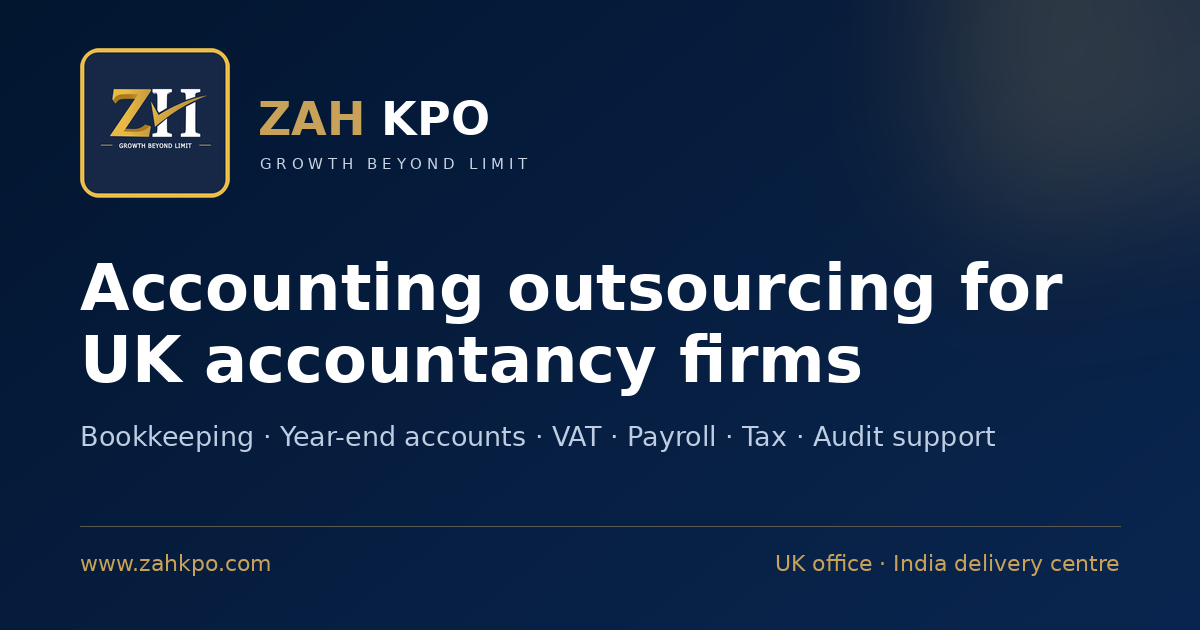
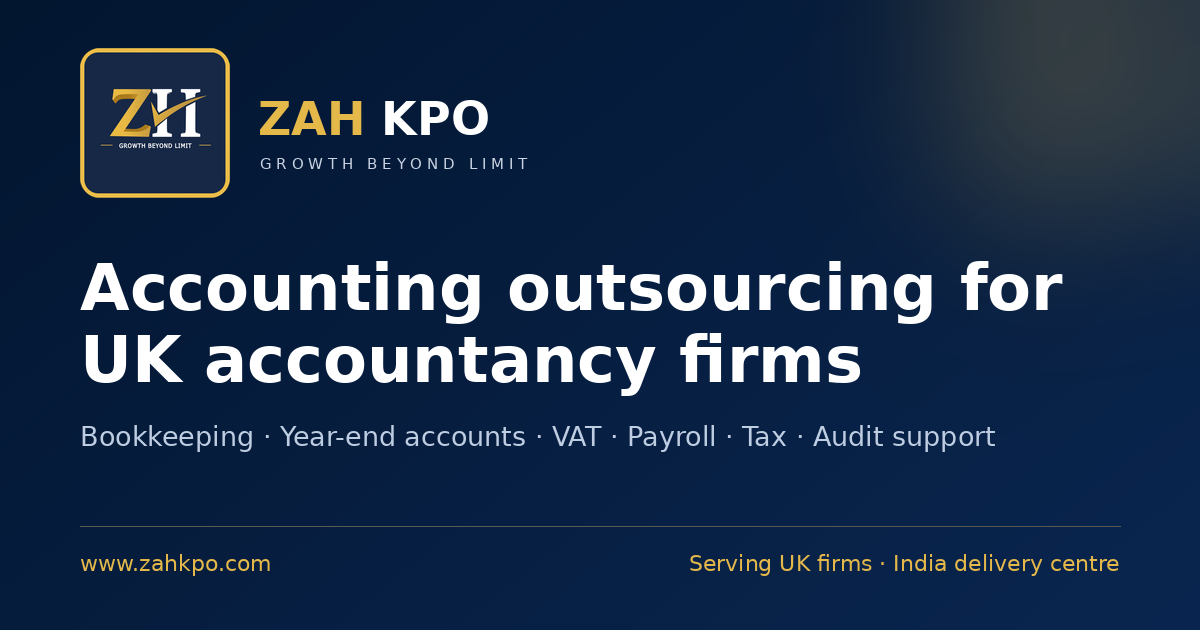
Label UK address as UK Correspondence Address (site, contact page, schema, share card)
Claude-Session: https://claude.ai/code/session_01T8saJrnEYXhtGzEnzyKF74

Changed region(s): [[0.555, 0.8746, 0.925, 0.9048], [0.2158, 0.1508, 0.3083, 0.2111], [0.0617, 0.8746, 0.2158, 0.9048]]

diff --git a/lib/site.ts b/lib/site.ts
@@ -15,7 +15,7 @@ export const siteConfig = {
     phoneAltHref: "+917999983500",
     careersEmail: "info@zahkpo.com",
     ukOffice: {
-      label: "UK Office",
+      label: "UK Correspondence Address",
       whatsappOnly: true,
       phone: "+44 784 842 6766",
       email: "info@zahkpo.com",
